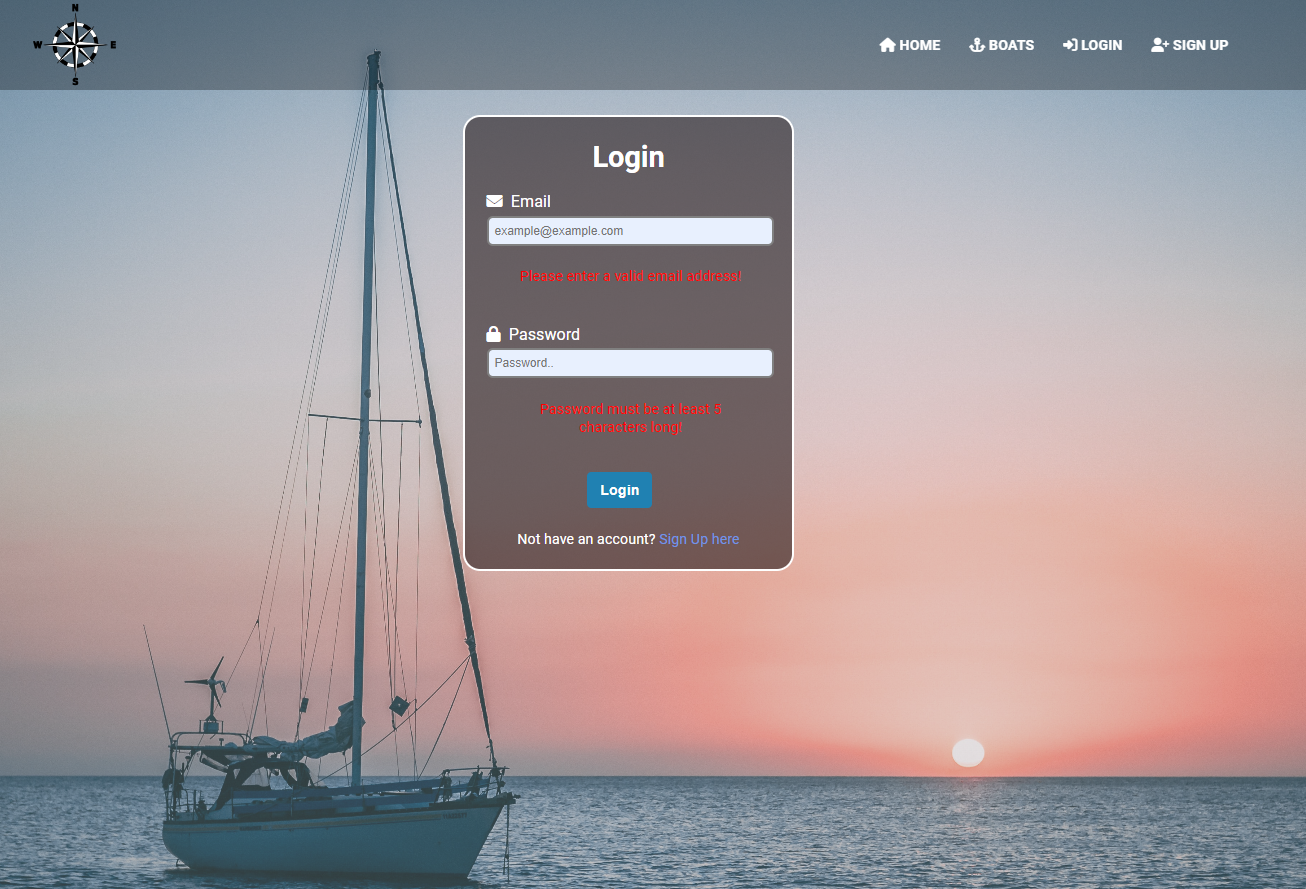
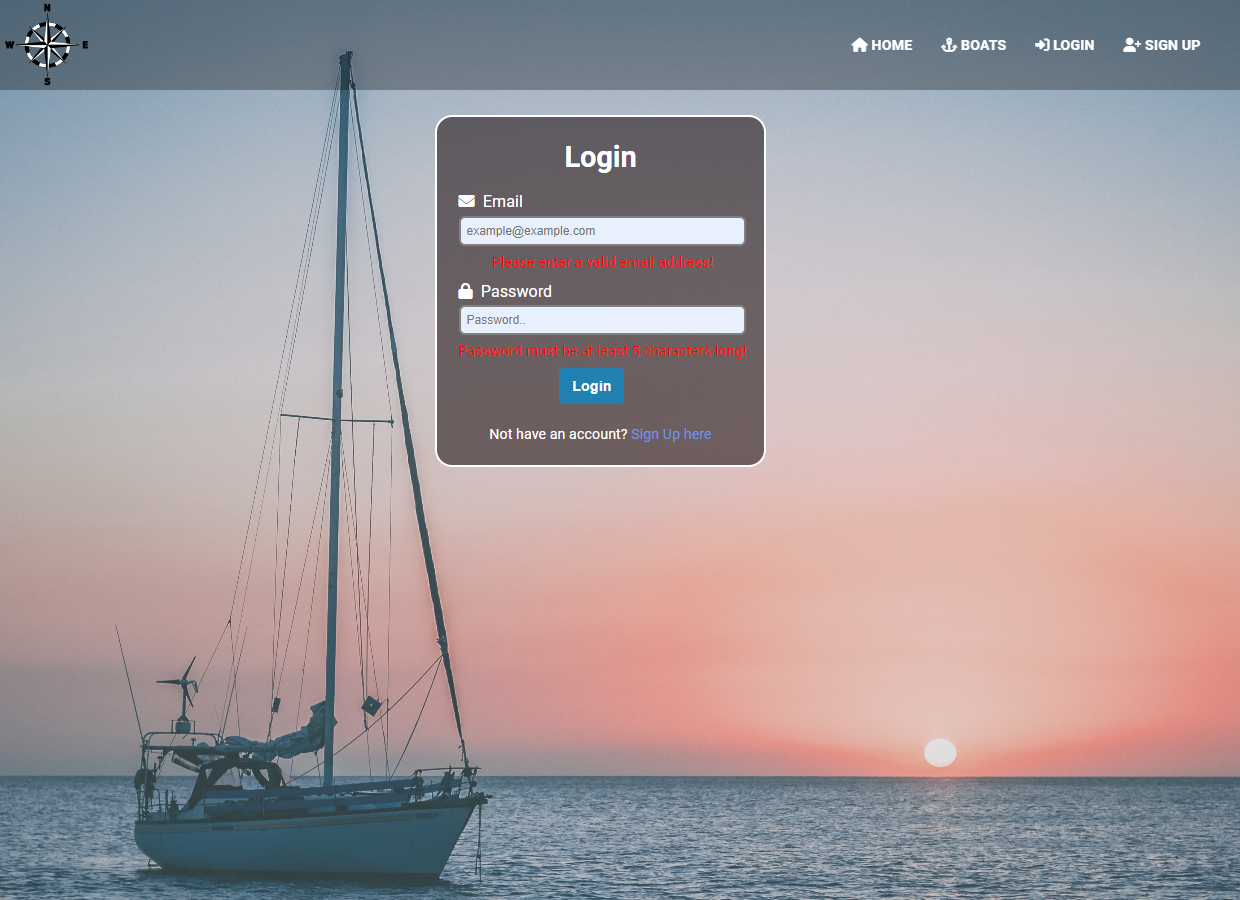
The CSS for error messages in the registration and login forms has been updated.

Changed region(s): [[0.0, 0.0607, 1.0, 1.0], [0.6742, 0.0304, 0.9806, 0.0607], [0.0, 0.0, 0.0919, 0.0911]]

diff --git a/client/src/components/Register/Register.module.css b/client/src/components/Register/Register.module.css
@@ -1,7 +1,3 @@
-/* body {
-    position: relative;
-} */
-
 .register {
     background: linear-gradient(rgba(165, 163, 163, 0.3), rgba(165, 163, 163, 0.3)), url(/assets/background.jpg) no-repeat center center;
     background-size: cover;
@@ -13,11 +9,9 @@ form label {
     gap: 0.5em;
 }
 
-
 .register-box {
     color: white;
     width: 23em;
-    /* height: 43em; */
     margin: auto;
     background-color: rgba(38, 26, 29, 0.6);
     border: 0.2em solid white;
@@ -28,13 +22,7 @@ form label {
 .register-box h1 {
     text-align: center;
     padding-top: 0.3em;
-    /* font-family: 'Handlee', cursive; */
 }
-
-/* .register-box h4 {
-    margin-top: 10px;
-    text-align: center;
-} */
 
 .register-box form {
     width: 18em;
@@ -59,30 +47,17 @@ form label {
     background: rgb(232, 240, 254);
 }
 
-/* .register-box input[type="submit"] {
-    width: 320px;
-    height: 35px;
-    margin-top: 30px;
-    border: none;
-    background-color: rgb(112, 150, 230);
-    color: white;
-    font-size: 15px;
-} */
-
 .register-box .last-p {
     text-align: center;
     padding: 1.5em;
     font-size: 1em;
-
 }
 
 .register-box p>a {
     color: rgb(112, 150, 230);
     text-decoration: none;
-
 }
 
-/* ===================== */
 .register-box form .gender {
     display: flex;
     justify-content: space-between;
@@ -104,11 +79,9 @@ form label {
     margin-right: 5px;
 }
 
-
 form .button-register {
     display: flex;
     padding: 0.7em 0.9em;
-    /* color: rgb(104, 102, 102); */
     color: white;
     font-weight: bold;
     font-size: 1em;
@@ -117,10 +90,8 @@ form .button-register {
     background: rgb(231, 238, 240);
     margin-top: 1em;
     margin-left: 7em;
-    /* border: 2px solid rgb(104, 102, 102); */
     cursor: pointer;
     background-color: rgb(32, 129, 178);
-
 }
 
 .button-register {
@@ -134,5 +105,7 @@ form .button-register {
 form .errorMessage{
     text-align: center;
     color: red;
-    width: 20em;
+    width: 21em;
+    margin-left: -0.5em;
+    margin-bottom: -1em;
 }

diff --git a/client/src/components/Login/Login.module.css b/client/src/components/Login/Login.module.css
@@ -110,5 +110,8 @@ form .button-login {
 form .errorMessage{
     text-align: center;
     color: red;
-    width: 20em;
+    width: 23.6em;
+    margin-bottom: -1em;
+    margin-left: -1.8em;
+    padding: 0.5em;
 }
